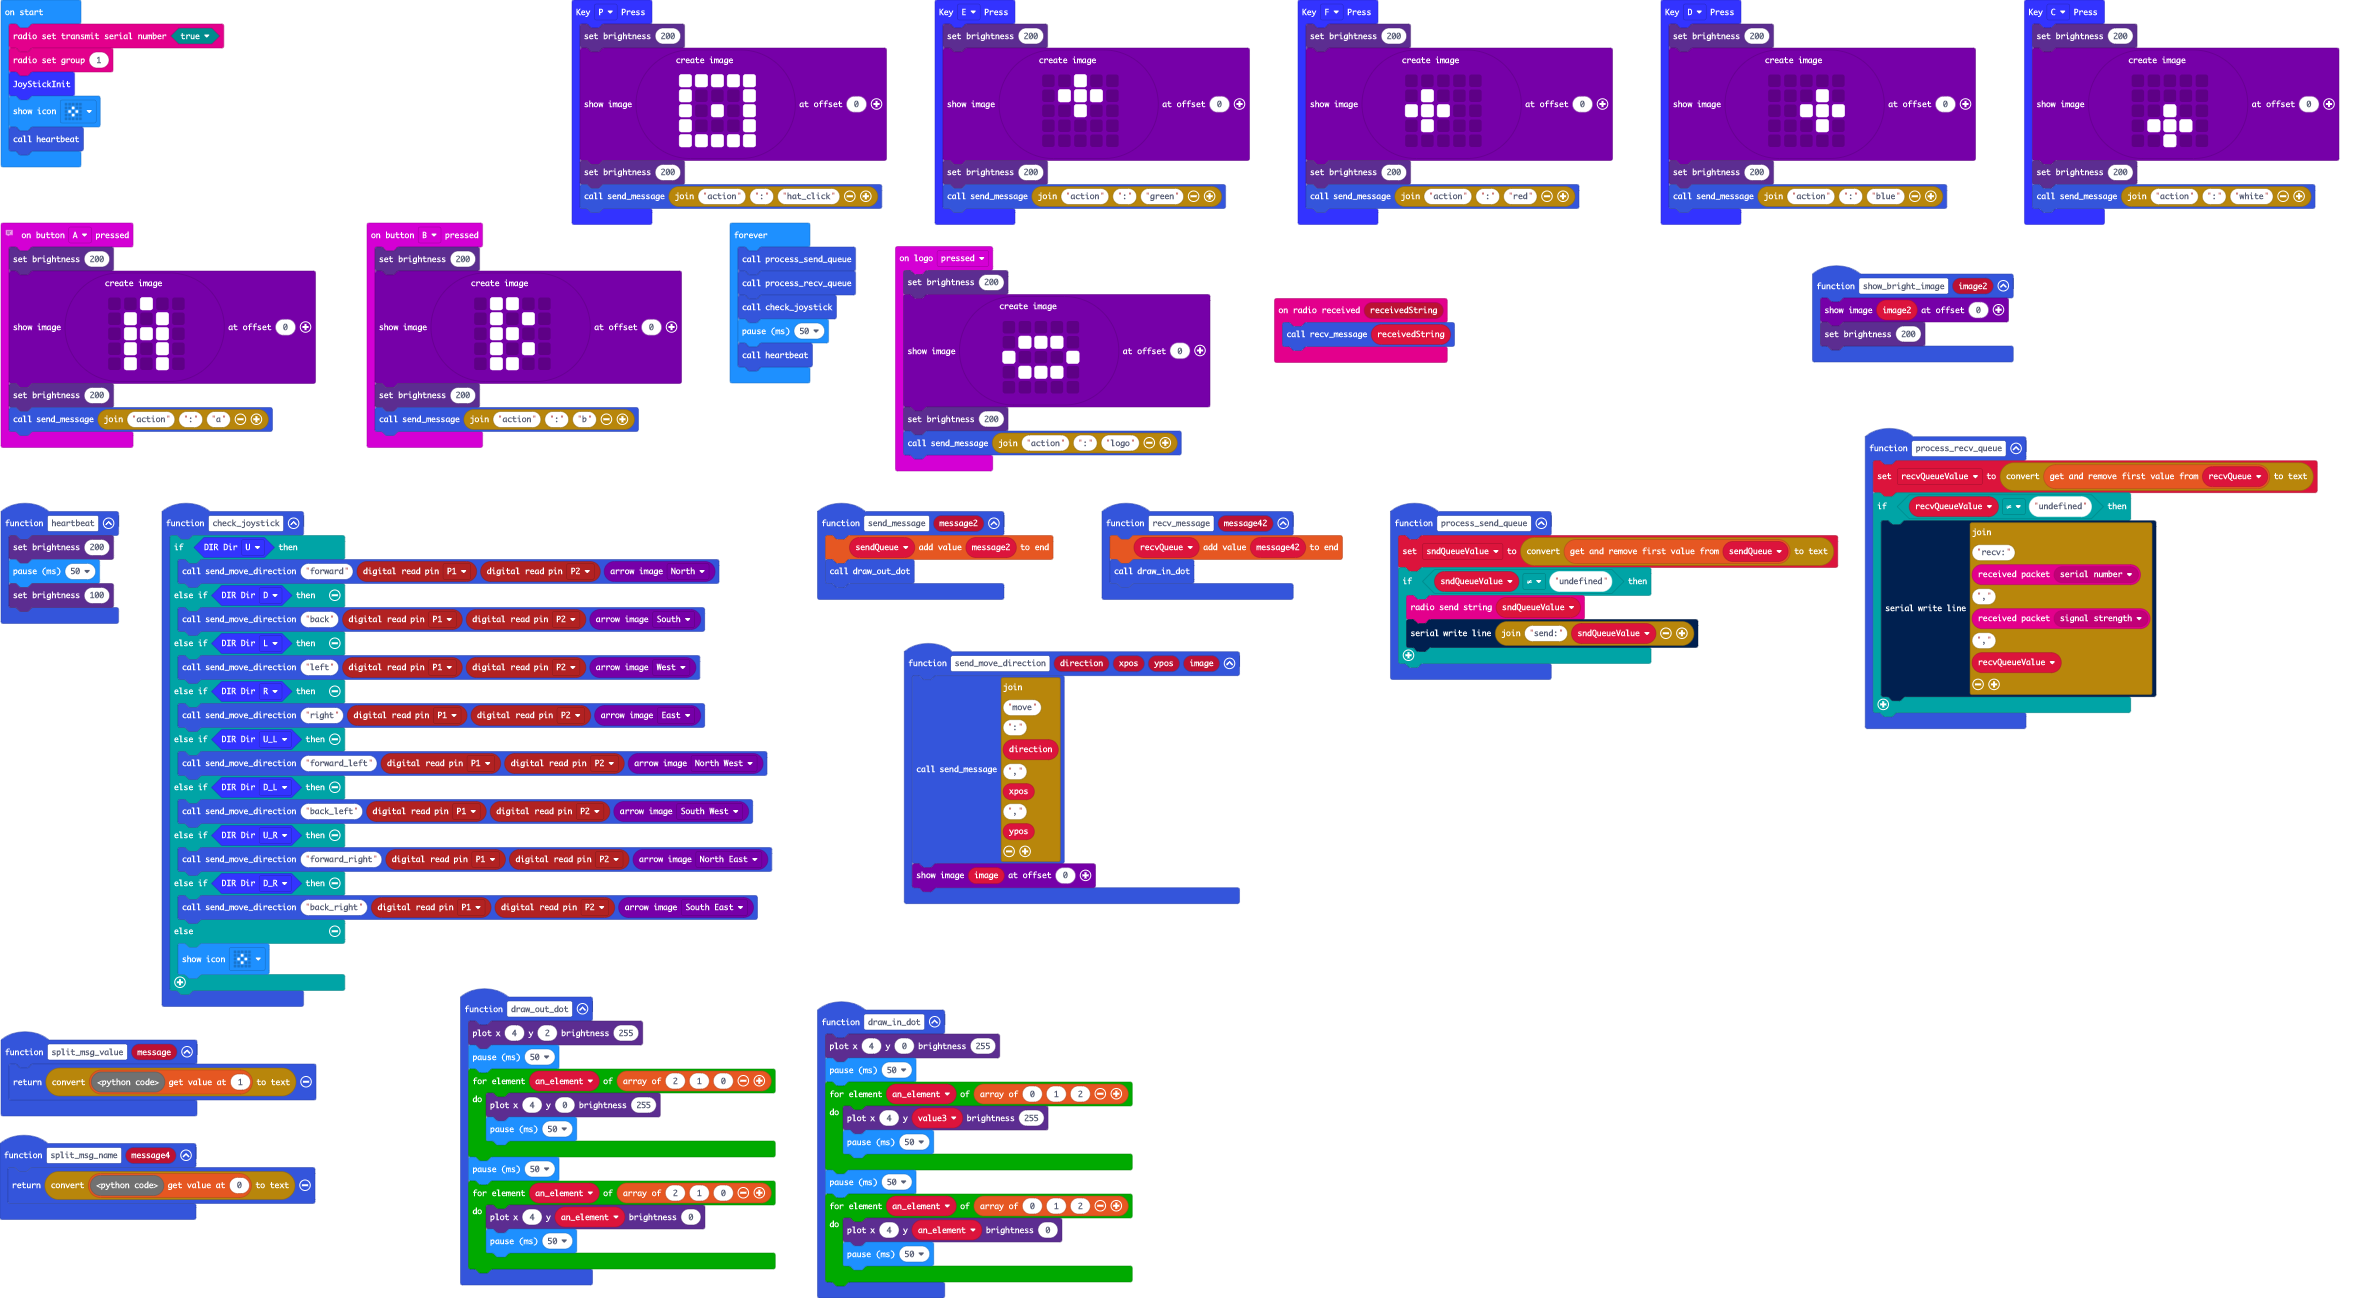
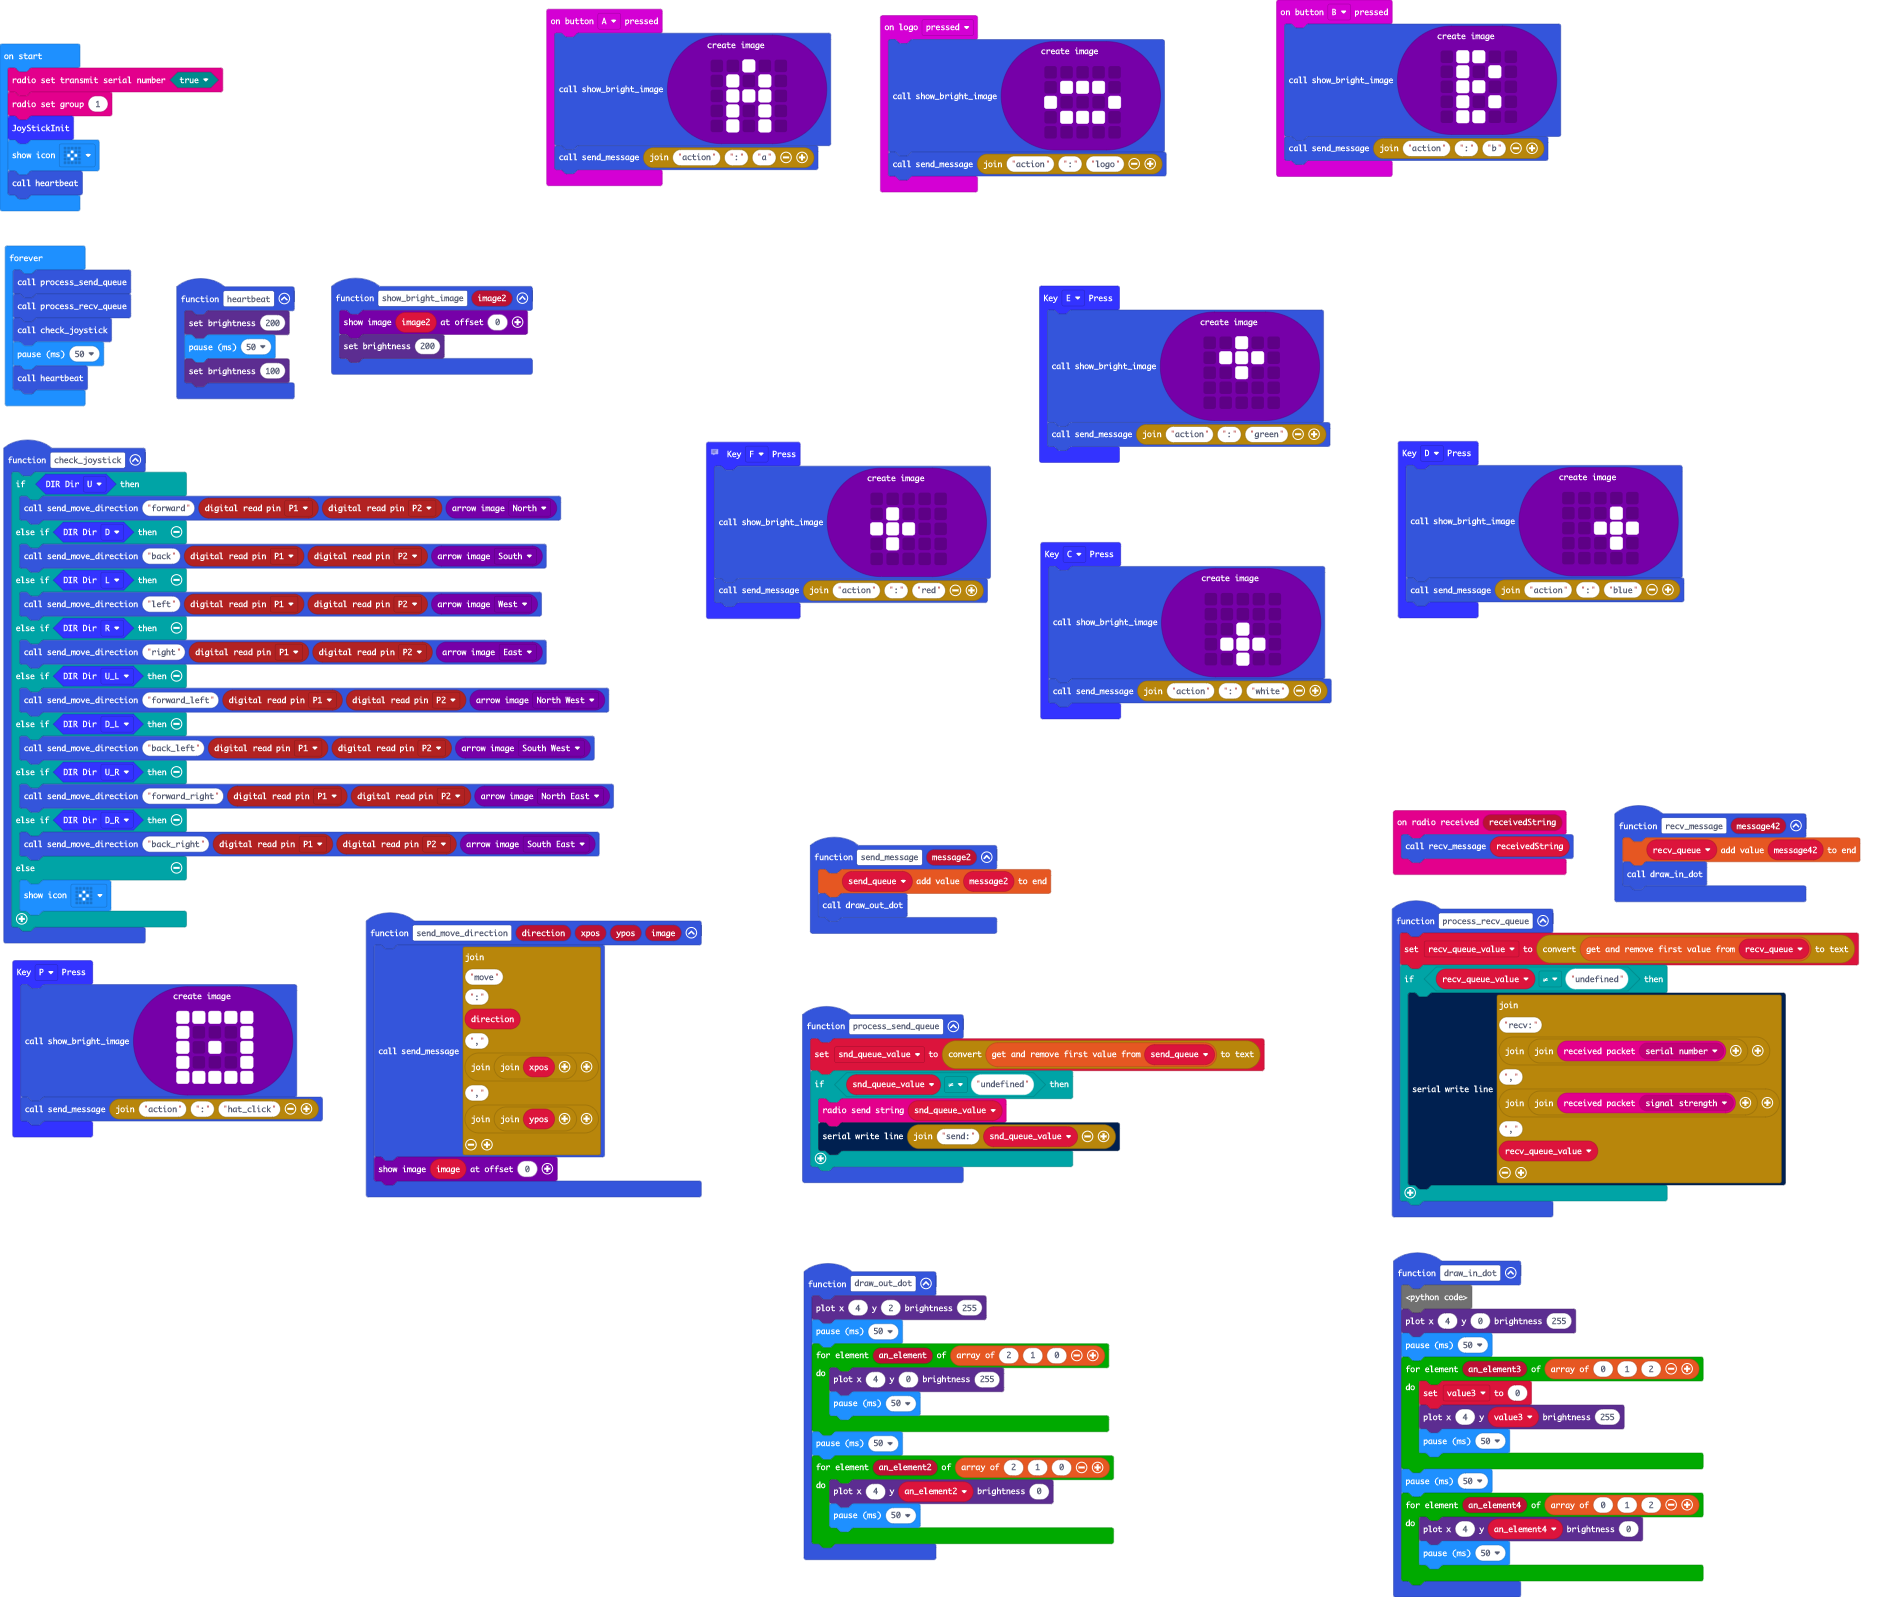
reduce

diff --git a/main.ts b/main.ts
@@ -1,30 +1,23 @@
-function split_msg_value(message: string): string {
-    return convertToText(_py.py_string_split(message, ":")[1])
-}
-
-WSJoyStick.onKey(KEY.F, function my_function() {
-    led.setBrightness(200)
-    images.createImage(`
+// using extension from url:
+// https://github.com/waveshare/JoyStick
+WSJoyStick.onKey(KEY.F, function () {
+    show_bright_image(images.createImage(`
         . . . . .
-                . # . . .
-                # # # . .
-                . # . . .
-                . . . . .
-    `).showImage(0)
-    led.setBrightness(200)
+        . # . . .
+        # # # . .
+        . # . . .
+        . . . . .
+        `))
     send_message("action" + ":" + "red")
 })
-function process_send_queue() {
-    
-    sndQueueValue = convertToText(sendQueue.shift())
-    if (sndQueueValue != "undefined") {
-        radio.sendString(sndQueueValue)
-        serial.writeLine("send:" + sndQueueValue)
+function process_send_queue () {
+    snd_queue_value = convertToText(send_queue.shift())
+    if (snd_queue_value != "undefined") {
+        radio.sendString(snd_queue_value)
+        serial.writeLine("send:" + snd_queue_value)
     }
-    
 }
-
-function draw_out_dot() {
+function draw_out_dot () {
     led.plotBrightness(4, 2, 255)
     basic.pause(50)
     for (let an_element of [2, 1, 0]) {
@@ -37,8 +30,7 @@ function draw_out_dot() {
         basic.pause(50)
     }
 }
-
-function check_joystick() {
+function check_joystick () {
     if (WSJoyStick.Listen_Dir(DIR.U)) {
         send_move_direction("forward", pins.digitalReadPin(DigitalPin.P1), pins.digitalReadPin(DigitalPin.P2), images.arrowImage(ArrowNames.North))
     } else if (WSJoyStick.Listen_Dir(DIR.D)) {
@@ -58,40 +50,28 @@ function check_joystick() {
     } else {
         basic.showIcon(IconNames.SmallDiamond)
     }
-    
 }
-
-function send_message(message2: string) {
-    sendQueue.push(message2)
+function send_message (message2: string) {
+    send_queue.push(message2)
     draw_out_dot()
 }
-
-function send_move_direction(direction: string, xpos: number, ypos: number, image: Image) {
+function send_move_direction (direction: string, xpos: number, ypos: number, image: Image) {
     send_message("move" + ":" + direction + "," + ("" + xpos) + "," + ("" + ypos))
     image.showImage(0)
 }
-
-//  using extension from url:
-//  https://github.com/waveshare/JoyStick
-input.onButtonPressed(Button.A, function on_button_pressed_a() {
-    led.setBrightness(200)
-    images.createImage(`
+input.onButtonPressed(Button.A, function () {
+    show_bright_image(images.createImage(`
         . . # . .
-                . # . # .
-                . # # # .
-                . # . # .
-                . # . # .
-    `).showImage(0)
-    led.setBrightness(200)
+        . # . # .
+        . # # # .
+        . # . # .
+        . # . # .
+        `))
     send_message("action" + ":" + "a")
 })
-function split_msg_name(message4: string): string {
-    return convertToText(_py.py_string_split(message4, ":")[0])
-}
-
-function draw_in_dot() {
+function draw_in_dot () {
     let value3: number;
-    led.plotBrightness(4, 0, 255)
+led.plotBrightness(4, 0, 255)
     basic.pause(50)
     for (let an_element3 of [0, 1, 2]) {
         value3 = 0
@@ -104,117 +84,98 @@ function draw_in_dot() {
         basic.pause(50)
     }
 }
-
-function process_recv_queue() {
-    
-    recvQueueValue = convertToText(recvQueue.shift())
-    if (recvQueueValue != "undefined") {
-        serial.writeLine("recv:" + ("" + radio.receivedPacket(RadioPacketProperty.SerialNumber)) + "," + ("" + radio.receivedPacket(RadioPacketProperty.SignalStrength)) + "," + recvQueueValue)
+function process_recv_queue () {
+    recv_queue_value = convertToText(recv_queue.shift())
+    if (recv_queue_value != "undefined") {
+        serial.writeLine("recv:" + ("" + radio.receivedPacket(RadioPacketProperty.SerialNumber)) + "," + ("" + radio.receivedPacket(RadioPacketProperty.SignalStrength)) + "," + recv_queue_value)
     }
-    
 }
-
-WSJoyStick.onKey(KEY.P, function my_function2() {
-    led.setBrightness(200)
-    images.createImage(`
+WSJoyStick.onKey(KEY.P, function () {
+    show_bright_image(images.createImage(`
         # # # # #
-                # . . . #
-                # . # . #
-                # . . . #
-                # # # # #
-    `).showImage(0)
-    led.setBrightness(200)
+        # . . . #
+        # . # . #
+        # . . . #
+        # # # # #
+        `))
     send_message("action" + ":" + "hat_click")
 })
-function show_bright_image(image2: Image) {
+function show_bright_image (image2: Image) {
     image2.showImage(0)
     led.setBrightness(200)
 }
-
-function recv_message(message42: string) {
-    recvQueue.push(message42)
+function recv_message (message42: string) {
+    recv_queue.push(message42)
     draw_in_dot()
 }
-
-WSJoyStick.onKey(KEY.E, function my_function3() {
-    led.setBrightness(200)
-    images.createImage(`
+WSJoyStick.onKey(KEY.E, function () {
+    show_bright_image(images.createImage(`
         . . # . .
-                . # # # .
-                . . # . .
-                . . . . .
-                . . . . .
-    `).showImage(0)
-    led.setBrightness(200)
+        . # # # .
+        . . # . .
+        . . . . .
+        . . . . .
+        `))
     send_message("action" + ":" + "green")
 })
-WSJoyStick.onKey(KEY.D, function my_function4() {
-    led.setBrightness(200)
-    images.createImage(`
+WSJoyStick.onKey(KEY.D, function () {
+    show_bright_image(images.createImage(`
         . . . . .
-                . . . # .
-                . . # # #
-                . . . # .
-                . . . . .
-    `).showImage(0)
-    led.setBrightness(200)
+        . . . # .
+        . . # # #
+        . . . # .
+        . . . . .
+        `))
     send_message("action" + ":" + "blue")
 })
-radio.onReceivedString(function on_received_string(receivedString: string) {
+radio.onReceivedString(function (receivedString) {
     recv_message(receivedString)
 })
-input.onButtonPressed(Button.B, function on_button_pressed_b() {
-    led.setBrightness(200)
-    images.createImage(`
+input.onButtonPressed(Button.B, function () {
+    show_bright_image(images.createImage(`
         . # # . .
-                . # . # .
-                . # # . .
-                . # . # .
-                . # # . .
-    `).showImage(0)
-    led.setBrightness(200)
+        . # . # .
+        . # # . .
+        . # . # .
+        . # # . .
+        `))
     send_message("action" + ":" + "b")
 })
-WSJoyStick.onKey(KEY.C, function my_function5() {
-    led.setBrightness(200)
-    images.createImage(`
+WSJoyStick.onKey(KEY.C, function () {
+    show_bright_image(images.createImage(`
         . . . . .
-                . . . . .
-                . . # . .
-                . # # # .
-                . . # . .
-    `).showImage(0)
-    led.setBrightness(200)
+        . . . . .
+        . . # . .
+        . # # # .
+        . . # . .
+        `))
     send_message("action" + ":" + "white")
 })
-function heartbeat() {
+function heartbeat () {
     led.setBrightness(200)
     basic.pause(50)
     led.setBrightness(100)
 }
-
-input.onLogoEvent(TouchButtonEvent.Pressed, function on_logo_pressed() {
-    led.setBrightness(200)
-    images.createImage(`
+input.onLogoEvent(TouchButtonEvent.Pressed, function () {
+    show_bright_image(images.createImage(`
         . . . . .
-                . # # # .
-                # . . . #
-                . # # # .
-                . . . . .
-    `).showImage(0)
-    led.setBrightness(200)
+        . # # # .
+        # . . . #
+        . # # # .
+        . . . . .
+        `))
     send_message("action" + ":" + "logo")
 })
-let recvQueue : string[] = []
-let recvQueueValue = ""
-let sendQueue : string[] = []
-let sndQueueValue = ""
+let recv_queue: string[] = []
+let recv_queue_value = ""
+let send_queue: string[] = []
+let snd_queue_value = ""
 radio.setTransmitSerialNumber(true)
 radio.setGroup(1)
 WSJoyStick.JoyStickInit()
 basic.showIcon(IconNames.SmallDiamond)
 heartbeat()
-basic.forever(function on_forever() {
+basic.forever(function () {
     process_send_queue()
     process_recv_queue()
     check_joystick()

diff --git a/main.py b/main.py
@@ -1,5 +1,7 @@
 def split_msg_value(message: str):
     return convert_to_text(message.split(":")[1])
+# using extension from url:
+# https://github.com/waveshare/JoyStick
 
 def my_function():
     led.set_brightness(200)
@@ -15,11 +17,11 @@ def my_function():
 WSJoyStick.on_key(KEY.F, my_function)
 
 def process_send_queue():
-    global sndQueueValue
-    sndQueueValue = convert_to_text(sendQueue.shift())
-    if sndQueueValue != "undefined":
-        radio.send_string(sndQueueValue)
-        serial.write_line("send:" + sndQueueValue)
+    global snd_queue_value
+    snd_queue_value = convert_to_text(send_queue.shift())
+    if snd_queue_value != "undefined":
+        radio.send_string(snd_queue_value)
+        serial.write_line("send:" + snd_queue_value)
 def draw_out_dot():
     led.plot_brightness(4, 2, 255)
     basic.pause(50)
@@ -74,13 +76,11 @@ def check_joystick():
     else:
         basic.show_icon(IconNames.SMALL_DIAMOND)
 def send_message(message2: str):
-    sendQueue.append(message2)
+    send_queue.append(message2)
     draw_out_dot()
 def send_move_direction(direction: str, xpos: number, ypos: number, image: Image):
-    send_message("move" + ":" + direction + "," + str(xpos) + "," + str(ypos))
+    send_message("move" + ":" + direction + "," + ("" + str(xpos)) + "," + ("" + str(ypos)))
     image.show_image(0)
-# using extension from url:
-# https://github.com/waveshare/JoyStick
 
 def on_button_pressed_a():
     led.set_brightness(200)
@@ -109,10 +109,10 @@ def draw_in_dot():
         led.plot_brightness(4, an_element4, 0)
         basic.pause(50)
 def process_recv_queue():
-    global recvQueueValue
-    recvQueueValue = convert_to_text(recvQueue.shift())
-    if recvQueueValue != "undefined":
-        serial.write_line("recv:" + str(radio.received_packet(RadioPacketProperty.SERIAL_NUMBER)) + "," + str(radio.received_packet(RadioPacketProperty.SIGNAL_STRENGTH)) + "," + recvQueueValue)
+    global recv_queue_value
+    recv_queue_value = convert_to_text(recv_queue.shift())
+    if recv_queue_value != "undefined":
+        serial.write_line("recv:" + ("" + str(radio.received_packet(RadioPacketProperty.SERIAL_NUMBER))) + "," + ("" + str(radio.received_packet(RadioPacketProperty.SIGNAL_STRENGTH))) + "," + recv_queue_value)
 
 def my_function2():
     led.set_brightness(200)
@@ -131,7 +131,7 @@ def show_bright_image(image2: Image):
     image2.show_image(0)
     led.set_brightness(200)
 def recv_message(message42: str):
-    recvQueue.append(message42)
+    recv_queue.append(message42)
     draw_in_dot()
 
 def my_function3():
@@ -208,10 +208,10 @@ def on_logo_pressed():
     send_message("action" + ":" + "logo")
 input.on_logo_event(TouchButtonEvent.PRESSED, on_logo_pressed)
 
-recvQueue: List[str] = []
-recvQueueValue = ""
-sendQueue: List[str] = []
-sndQueueValue = ""
+recv_queue: List[str] = []
+recv_queue_value = ""
+send_queue: List[str] = []
+snd_queue_value = ""
 radio.set_transmit_serial_number(True)
 radio.set_group(1)
 WSJoyStick.joy_stick_init()
